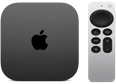
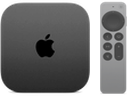
Give the Guide button's remote the same soft finish as the Apple TV
The remote keeps its real shape, with a round clickpad and buttons, and
its silver is toned to sit with the box instead of standing out as a
flat, high-contrast sticker. The pair is a little larger, so the
remote's clickpad and buttons still read on a phone.

Claude-Session: https://claude.ai/code/session_0137bLDV8i1EPGADtwkNBMSr

diff --git a/index.html b/index.html
@@ -252,7 +252,7 @@
     .menu-toggle svg { width: 16px; height: 16px; }
     /* The Apple TV and its remote, the same height, brightened in the image
        itself so the remote keeps its own silver. */
-    .menu-toggle .apple-tv-box { width: auto; height: 28px; }
+    .menu-toggle .apple-tv-box { width: auto; height: 32px; }
     .apple-tv-box img { position: static; width: auto; height: 100%; }
     .dialog-head h2:focus { outline: none; }
     .install-needs { padding: 12px 14px; border: 1px solid var(--line); border-radius: 10px; font-size: 13px; line-height: 1.6; }
@@ -361,7 +361,7 @@
     <button class="notes-button signer-launch" type="button" data-open-dialog="web-signer" aria-haspopup="dialog" aria-controls="web-signer"><span class="device-image iphone-device" aria-hidden="true"><img src="assets/iphone-hardware.png" width="60" height="120" alt=""></span>Web signer</button>
   <div class="site-menu">
     <button class="menu-toggle" type="button" data-open-dialog="appletv-install" aria-label="Apple TV Guide" aria-haspopup="dialog" aria-controls="appletv-install">
-      <span class="device-image apple-tv-box" aria-hidden="true"><img src="assets/apple-tv-remote.png" width="116" height="84" alt=""></span><span>Guide</span>
+      <span class="device-image apple-tv-box" aria-hidden="true"><img src="assets/apple-tv-remote.png?v=2" width="127" height="96" alt=""></span><span>Guide</span>
     </button>
   </div>
     <a class="float-mark" href="#top" aria-label="Back to top">
